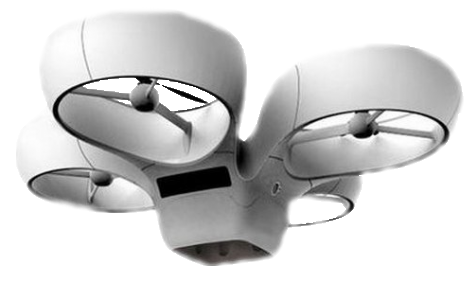
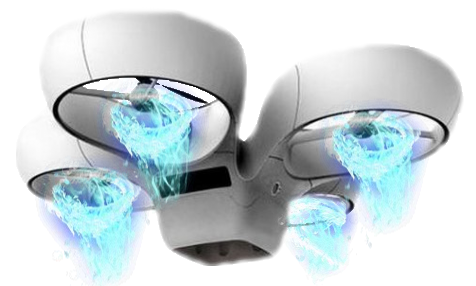
动画

Changed region(s): [[0.0882, 0.2797, 0.4412, 1.0], [0.5882, 0.3636, 0.9118, 0.951]]

diff --git a/src/tools/DrawUnits.java b/src/tools/DrawUnits.java
@@ -747,14 +747,16 @@ public class DrawUnits {
 				}else{
 					drone = new ImageIcon("graphics/soldiers/s4/drone.png").getImage();
 				}
+				g.drawImage(drone,o.getX(), o.getY()+o.ran, 59, 36, panel);
 			}else if(o.attacking){
 				if(!DataBase.isPause){
-					drone = new ImageIcon("graphics/soldiers/s4/drone.png").getImage();
+					drone = new ImageIcon("graphics/soldiers/s4/droneattack.gif").getImage();
+					g.drawImage(drone,o.getX(), o.getY()+o.ran, 135, 36, panel);
 				}else{
 					drone = new ImageIcon("graphics/soldiers/s4/drone.png").getImage();
+					g.drawImage(drone,o.getX(), o.getY()+o.ran, 59, 36, panel);
 				}
 			}
-			g.drawImage(drone,o.getX(), o.getY()+o.ran, 119, 72, panel);
 			break;
 		case 0:
 			Image drone1 = new ImageIcon("graphics/soldiers/en4/drone.png").getImage();
@@ -769,7 +771,7 @@ public class DrawUnits {
 					drone1 = new ImageIcon("graphics/soldiers/en4/drone.png").getImage();
 				}
 			}
-			g.drawImage(drone1,o.getX(), o.getY()+o.ran, 119, 72, panel);
+			g.drawImage(drone1,o.getX(), o.getY()+o.ran, 50, 50, panel);
 			break;
     	}
     	int lifePercentage = (int)(40 * 1.0*(o.getHp()*1.00/DataBase.DRONE_HP));
@@ -818,12 +820,12 @@ public class DrawUnits {
 			g.drawImage(ship1,o.getX(), o.getY()+o.ran, 200, 94, panel);
 			break;
     	}
-    	int lifePercentage = (int)(40 * 1.0*(o.getHp()*1.00/DataBase.RAZERSHIP_HP));
+    	int lifePercentage = (int)(200 * 1.0*(o.getHp()*1.00/DataBase.RAZERSHIP_HP));
 		g.setColor(Color.GREEN);
 		g.fill3DRect(o.getX(), o.getY()-10+o.ran, lifePercentage, 3, false);
-		if(lifePercentage!=40){
+		if(lifePercentage!=200){
 			g.setColor(Color.RED);
-			g.fill3DRect(o.getX()+lifePercentage, o.getY()+o.ran-10, 40-lifePercentage, 3, false);
+			g.fill3DRect(o.getX()+lifePercentage, o.getY()+o.ran-10, 200-lifePercentage, 3, false);
 	    }
     }
     /**
@@ -839,14 +841,16 @@ public class DrawUnits {
 				}else{
 					robot = new ImageIcon("graphics/soldiers/s4/robot.png").getImage();
 				}
+				g.drawImage(robot,o.getX(), o.getY()+o.ran, 31, 50, panel);
 			}else if(o.attacking){
 				if(!DataBase.isPause){
-					robot = new ImageIcon("graphics/soldiers/s4/robot.png").getImage();
+					robot = new ImageIcon("graphics/soldiers/s4/robotattack.gif").getImage();
+					g.drawImage(robot,o.getX(), o.getY()+o.ran, 95, 50, panel);
 				}else{
 					robot = new ImageIcon("graphics/soldiers/s4/robot.png").getImage();
+					g.drawImage(robot,o.getX(), o.getY()+o.ran, 31, 50, panel);
 				}
 			}
-			g.drawImage(robot,o.getX(), o.getY()+o.ran, 62, 100, panel);
 			break;
 		case 0:
 			Image robot1 = new ImageIcon("graphics/soldiers/en4/robot.png").getImage();
@@ -861,7 +865,7 @@ public class DrawUnits {
 					robot1 = new ImageIcon("graphics/soldiers/en4/robot.png").getImage();
 				}
 			}
-			g.drawImage(robot1,o.getX(), o.getY()+o.ran, 62, 100, panel);
+			g.drawImage(robot1,o.getX(), o.getY()+o.ran, 31, 50, panel);
 			break;
     	}
     	int lifePercentage = (int)(40 * 1.0*(o.getHp()*1.00/DataBase.ROBOTWARRIOR_HP));
@@ -882,18 +886,26 @@ public class DrawUnits {
 			Image sneaker = new ImageIcon("graphics/soldiers/s4/sneaker.png").getImage();
 			if(o.moving){
 				if(!DataBase.isPause){
-					sneaker = new ImageIcon("graphics/soldiers/s4/sneaker.png").getImage();
+					if(o.invisible){
+						sneaker = new ImageIcon("graphics/soldiers/s4/sneakerInvisible.png").getImage();
+					}else{
+						sneaker = new ImageIcon("graphics/soldiers/s4/sneaker.png").getImage();
+					}
 				}else{
 					sneaker = new ImageIcon("graphics/soldiers/s4/sneaker.png").getImage();
 				}
+				g.drawImage(sneaker,o.getX(), o.getY()+o.ran, 100, 54, panel);
 			}else if(o.attacking){
 				if(!DataBase.isPause){
 					sneaker = new ImageIcon("graphics/soldiers/s4/sneaker.png").getImage();
+					g.drawImage(sneaker,o.getX(), o.getY()+o.ran, 100, 54, panel);
+					g.drawImage(new ImageIcon("graphics/soldiers/s4/sneakerattack.gif").getImage(),o.getX()+55, o.getY()+5+o.ran, 48, 42, panel);
 				}else{
 					sneaker = new ImageIcon("graphics/soldiers/s4/sneaker.png").getImage();
+					g.drawImage(sneaker,o.getX(), o.getY()+o.ran, 100, 54, panel);
+					
 				}
 			}
-			g.drawImage(sneaker,o.getX(), o.getY()+o.ran, 160, 74, panel);
 			break;
 		case 0:
 			Image sneaker1 = new ImageIcon("graphics/soldiers/en4/sneaker.png").getImage();
@@ -908,16 +920,18 @@ public class DrawUnits {
 					sneaker1 = new ImageIcon("graphics/soldiers/en4/sneaker.png").getImage();
 				}
 			}
-			g.drawImage(sneaker1,o.getX(), o.getY()+o.ran, 160, 74, panel);
+			g.drawImage(sneaker1,o.getX(), o.getY()+o.ran, 100, 54, panel);
 			break;
     	}
-    	int lifePercentage = (int)(40 * 1.0*(o.getHp()*1.00/DataBase.SNEAKER_HP));
-		g.setColor(Color.GREEN);
-		g.fill3DRect(o.getX(), o.getY()-10+o.ran, lifePercentage, 3, false);
-		if(lifePercentage!=40){
-			g.setColor(Color.RED);
-			g.fill3DRect(o.getX()+lifePercentage, o.getY()+o.ran-10, 40-lifePercentage, 3, false);
-	    }
+    	if(!o.invisible){
+    		int lifePercentage = (int)(100 * 1.0*(o.getHp()*1.00/DataBase.SNEAKER_HP));
+    		g.setColor(Color.GREEN);
+    		g.fill3DRect(o.getX(), o.getY()-10+o.ran, lifePercentage, 3, false);
+    		if(lifePercentage!=100){
+    			g.setColor(Color.RED);
+    			g.fill3DRect(o.getX()+lifePercentage, o.getY()+o.ran-10, 100-lifePercentage, 3, false);
+    	    }
+    	}
     }
     /**
      * draw black hole
